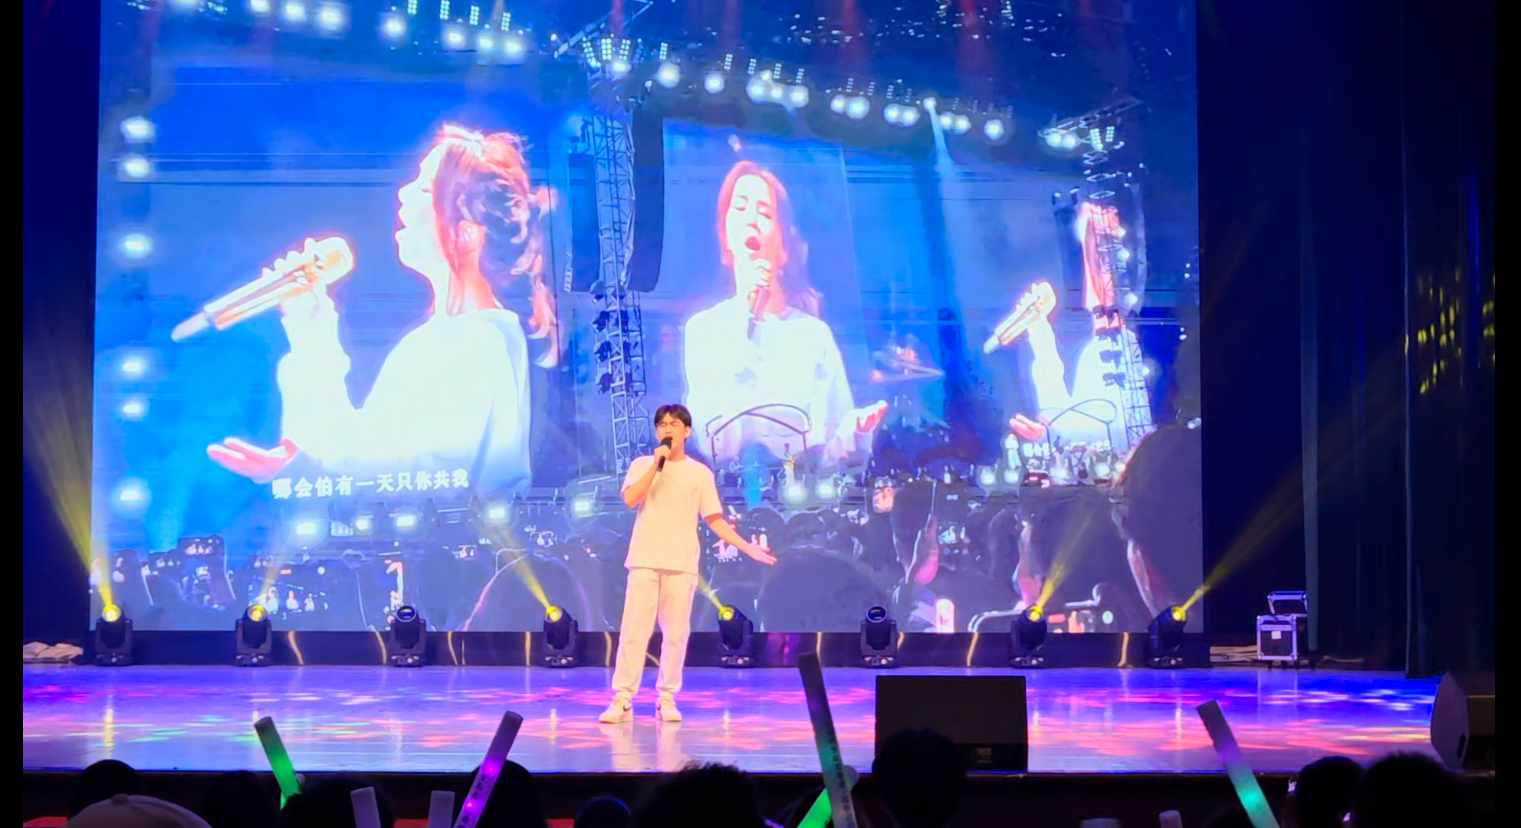
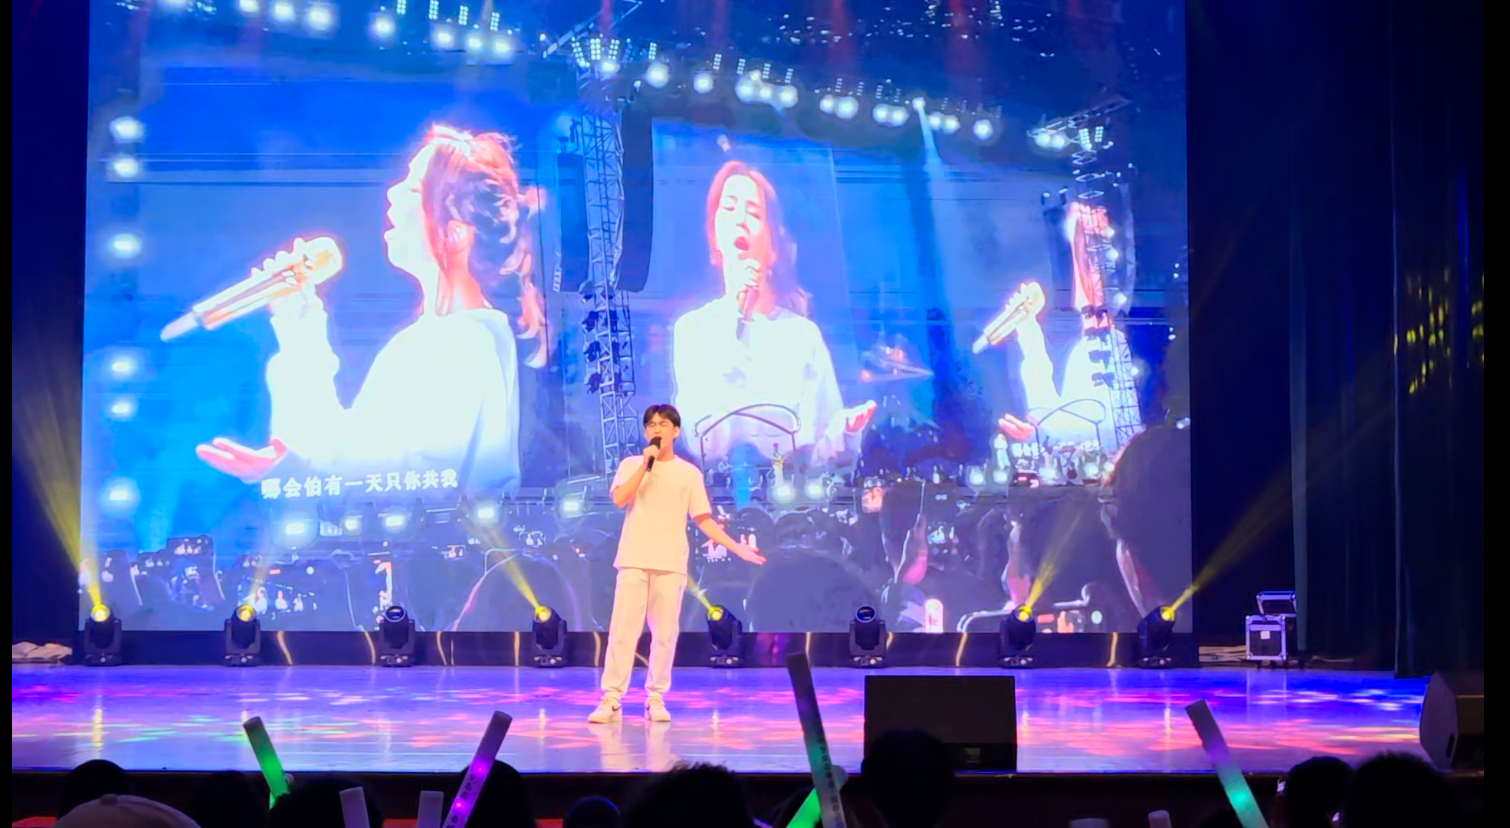
update

diff --git a/hobbies.md b/hobbies.md
@@ -8,7 +8,7 @@ title: Hobbies
 
 #### Reading, Writing Blogs & Meditation
 <div>
-<img src="/images/medi3.jpg">
+<img src="/images/medi4.jpg">
 </div>
 <br>
 I enjoy reading beyond my academic field, keeping reading notes, and writing blog posts. I have a broad interest in **history**, **psychology**, and traditional Chinese **philosophy**. Through reading, I seek a better understanding of my inner self — how my emotions work and how to live in harmony with my own mind.
@@ -20,25 +20,13 @@ You’re welcome to follow my **WeChat public account**: **_CowboyJohnny_**, whe
 #### Singing & Concert
 
 <div class="third">
-<img src="/images/sing66.png">
+<img src="/images/sing77.png">
 <img src="/images/sing22.png">
 <img src="/images/sing33.png">
 </div>
 <br>
 
-<img src="/images/sing11.jpg" class="floatpic" width="300">
+<img src="/images/sing11.jpg" class="floatpic" width="200">
 
 <br>In addition, I have a deep passion for music, which I believe can express emotions too subtle for words. I often attend concerts and live performances, and I also enjoy singing pop songs myself. For me, singing is a wonderful way to relieve the stress that sometimes comes with research. Although I tend to be introverted, I once stepped out of my comfort zone to perform a solo rendition of Beyond’s classic song (海阔天空) at my graduate farewell party (as shown below).<br>
-
-
-
-## Workshop
-
-<div class="third">
-<img src="/images/prelection1.JPG">
-<img src="/images/speech1.JPG">
-<img src="/images/speech3.JPG">
-</div>
-<br>There must be something truly magical about standing on stage to give a fantastic speech, which considerably lifts my spirits and energizes my entire body. If you desire to master a specific knowledge in depth, just give a prelection. If you can explain to others for complete understanding, you are already an expert. I really enjoy the accomplishment of imparting my knowledge to others, so what I strive for is to be **a student's favorite professor** at the [best universities in my hometown].
-
-[best universities in my hometown]:https://www.fzu.edu.cn/
+<br>
